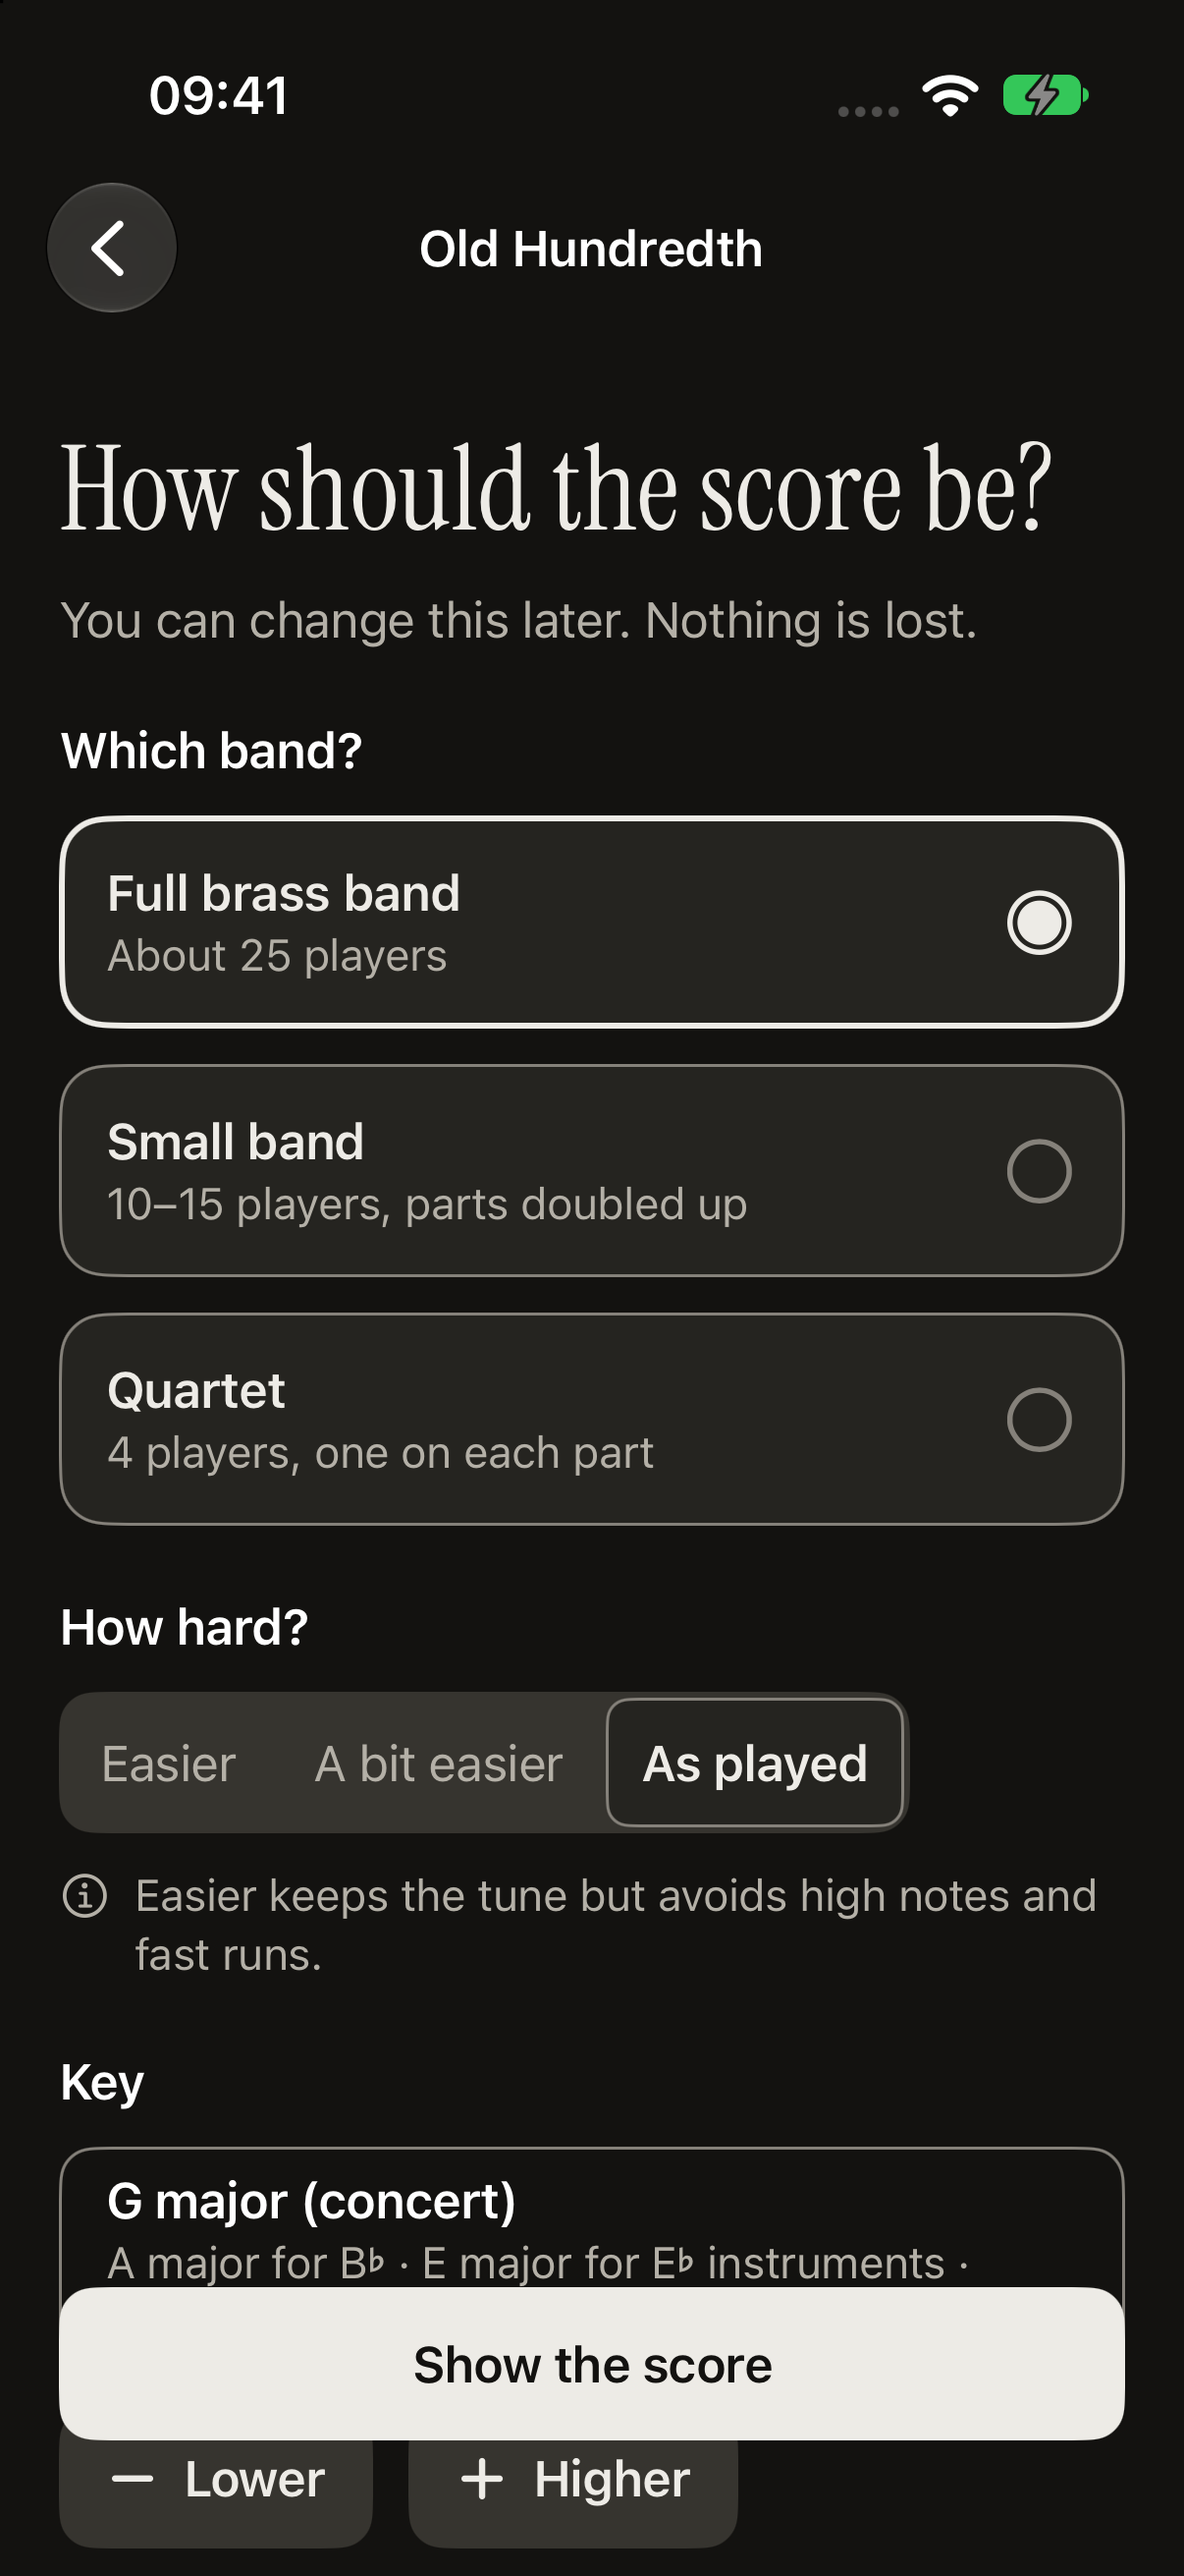
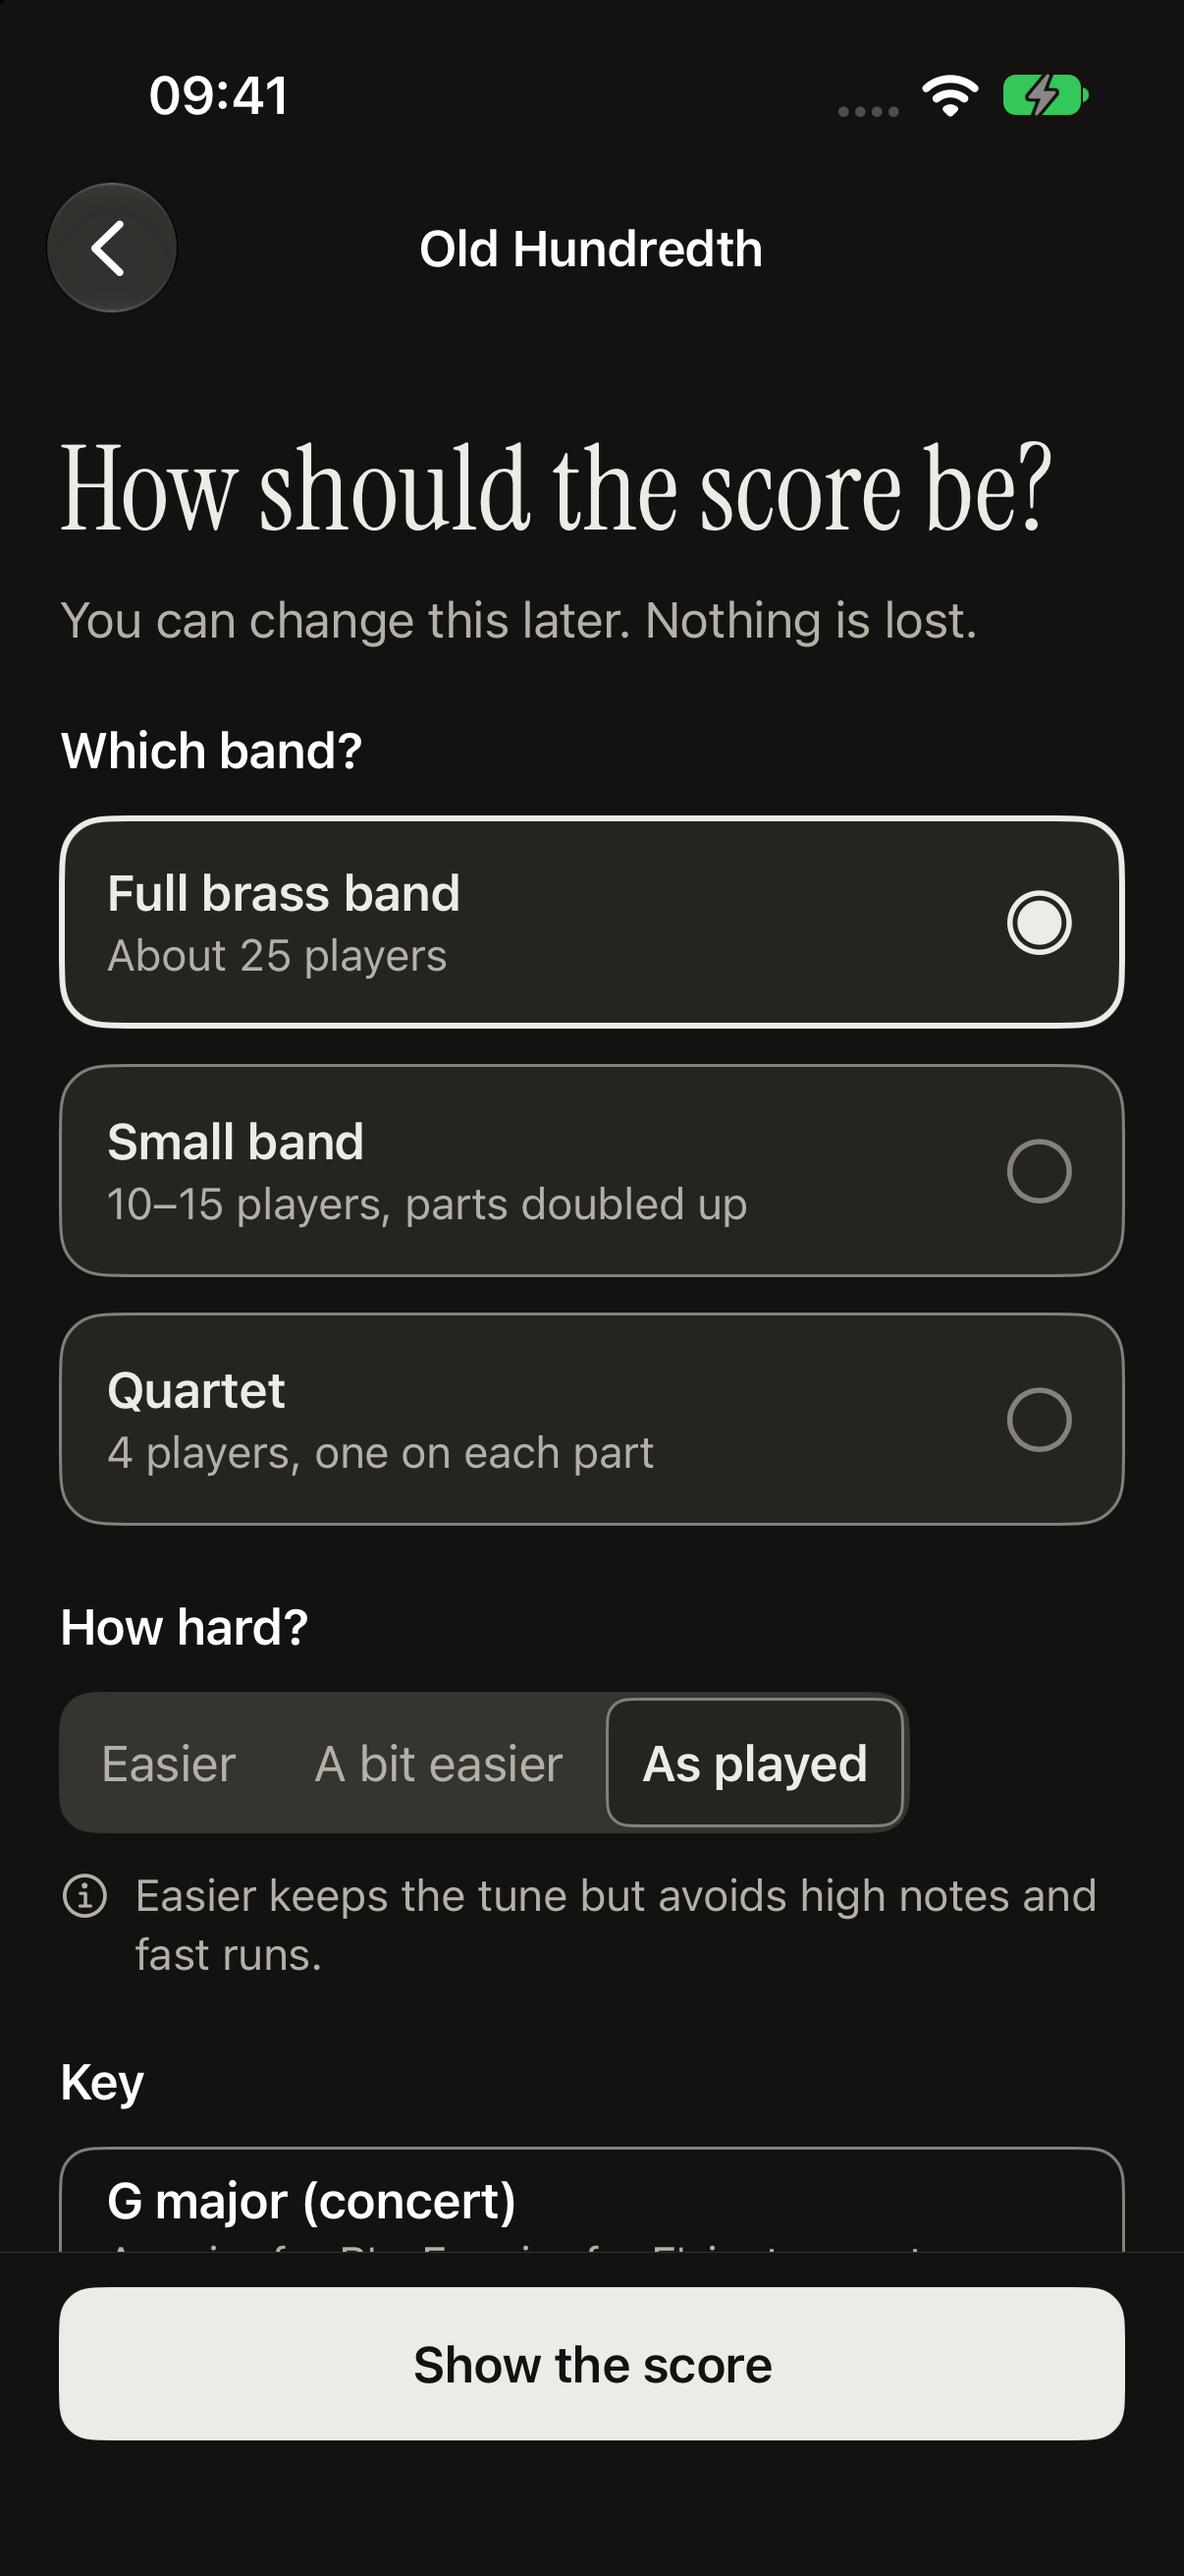
fix(apple): dock Show the score on an opaque band
On Choose output the button floated over the Key card and the Lower and
Higher buttons with the content showing around it. It now sits on a
page-coloured band that reaches the screen edge, with a hairline on top;
the bottom inset keeps the last row, and any focused control, above it.
A UI test scrolls to the end and checks Lower and Higher sit clear of
the band and can be pressed.

Retakes the iPhone Choose output screenshots (en and nb, light and dark).

diff --git a/apps/apple/AppUITests/PlayUITests.swift b/apps/apple/AppUITests/PlayUITests.swift
@@ -123,6 +123,32 @@ final class PlayUITests: XCTestCase {
         XCTAssertTrue(app.buttons["playPause"].waitForExistence(timeout: 30))
     }
 
+    /// Show the score sits on its own band: scrolled to the end, the key buttons are fully above it
+    /// and can be pressed, so nothing (and no focused control) is hidden behind it (WCAG 2.4.11).
+    func testShowScoreBandLeavesKeyButtonsClear() throws {
+        app.terminate()
+        app.launchArguments = ["-reset", "-fixture-service", "-fast", "-ApplePersistenceIgnoreState", "YES", "-skip-first-run", "-screen", "output"]
+        launchApp()
+        let show = app.descendants(matching: .any)["showScore"].firstMatch
+        XCTAssertTrue(show.waitForExistence(timeout: 20))
+        let lower = app.descendants(matching: .any)["keyLower"].firstMatch
+        let higher = app.descendants(matching: .any)["keyHigher"].firstMatch
+        XCTAssertTrue(higher.waitForExistence(timeout: 5))
+        #if os(iOS)
+        app.scrollViews.firstMatch.swipeUp()
+        app.scrollViews.firstMatch.swipeUp()
+        #endif
+        // the band starts one spacing step (12 pt) above the button
+        let top = show.frame.minY - 12
+        for button in [lower, higher] {
+            XCTAssertTrue(button.isHittable, "\(button.identifier) can be pressed")
+            XCTAssertLessThanOrEqual(button.frame.maxY, top + 0.5, "\(button.identifier) ends above the Show the score band")
+        }
+        XCTAssertTrue(show.isHittable)
+        higher.tap()
+        XCTAssertTrue(show.isHittable)
+    }
+
     /// "Listen to this bar" becomes "Stop" in the same place and size, and Stop ends it.
     func testListenInReviewCanBeStopped() throws {
         app.terminate()

diff --git a/apps/apple/App/Views/OutputView.swift b/apps/apple/App/Views/OutputView.swift
@@ -70,6 +70,10 @@ struct OutputView: View {
             .padding(.vertical, Space.s3)
             .frame(maxWidth: wide ? 880 : .infinity)
             .frame(maxWidth: .infinity)
+            // An opaque band down to the screen edge, with a hairline, so the choices scroll under it
+            // rather than showing through; the inset keeps the last row (and a focused one) above it.
+            .background(Color.Brasscribe.bg.ignoresSafeArea(edges: .bottom))
+            .overlay(alignment: .top) { Divider().overlay(Color.Brasscribe.border) }
         }
         .navigationTitle(Text(piece.title))
         #if os(iOS)
@@ -124,6 +128,7 @@ struct OutputView: View {
             .buttonStyle(SecondaryButtonStyle(minHeight: 48))
             .help(Text("One semitone lower"))
             .disabled(recordedFifths == nil || semitones <= -6)
+            .accessibilityIdentifier("keyLower")
     }
 
     private var higherButton: some View {
@@ -131,6 +136,7 @@ struct OutputView: View {
             .buttonStyle(SecondaryButtonStyle(minHeight: 48))
             .help(Text("One semitone higher"))
             .disabled(recordedFifths == nil || semitones >= 6)
+            .accessibilityIdentifier("keyHigher")
     }
 
     private var keyBox: some View {
